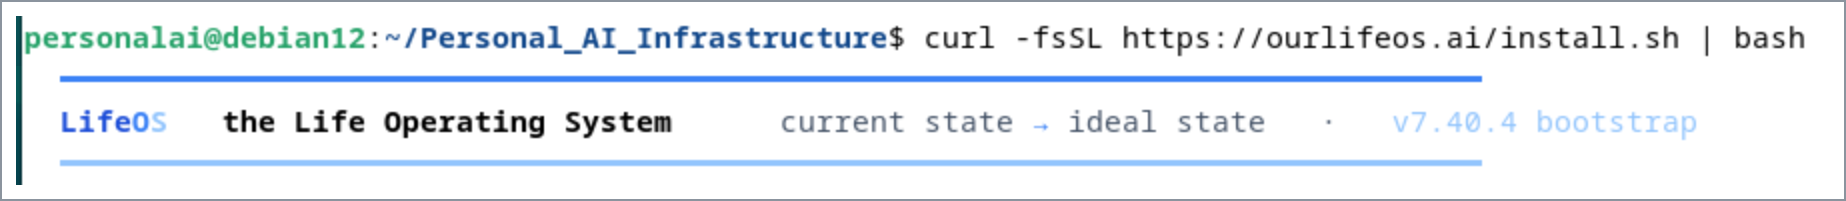
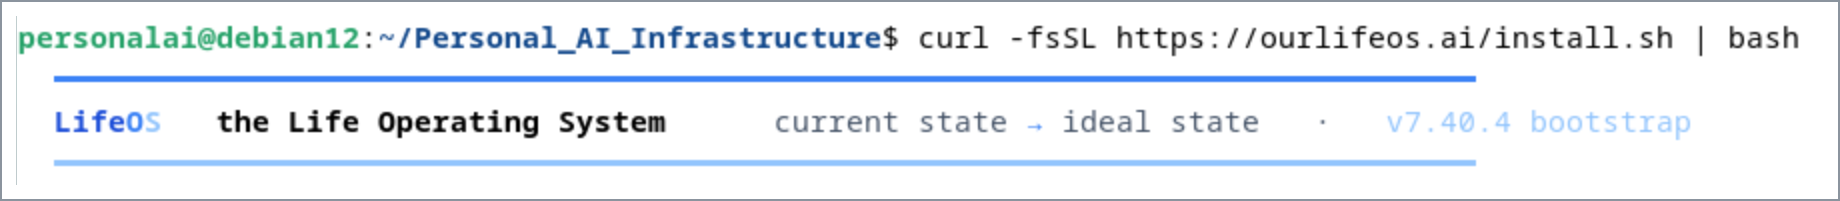
corrected instruction and removed lines on InstallLifeOS.png image

diff --git a/personal-ai-infrastructure/README.md b/personal-ai-infrastructure/README.md
@@ -338,21 +338,13 @@ curl -fsSL https://ourlifeos.ai/install.sh | bash
   <em>LifeOS v7.40.4 installer starting</em>
 </p>
 
-During this installation, the installer checked its prerequisites, including Bun, and installed the LifeOS skill under the current user’s Claude environment.:
+During this installation, the installer checked its prerequisites and installed the LifeOS skill under the current user's Claude environment:
 
 ```text
 ~/.claude/skills/LifeOS
 ```
 
-The current LifeOS installation process is different from the older PAI v4.0.3 installation.
-
-Do **not** use the old:
-
-```bash
-cp -r .claude ~/
-```
-
-PAI installation method for LifeOS v7.40.4.
+LifeOS uses its own installer and does not follow the PAI v4.0.3 installation steps. In particular, skip the `cp -r .claude ~/` step from Setup 1 — the `ourlifeos.ai` installer above already sets up `~/.claude/skills/LifeOS` for you.
 
 ## 3. Trust the Workspace
 
